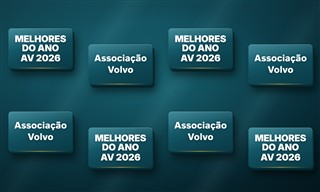
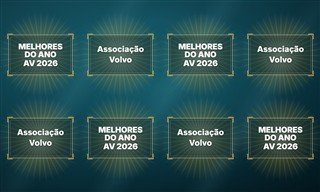
Arte 7 sem medalha e linha, estrela com brilho; Arte 10 com raios (AV 2026 amarelo); Arte 11 com box em linhas e raios dourados

diff --git a/artes/banner-5x3-painel.html b/artes/banner-5x3-painel.html
@@ -3,7 +3,7 @@
 <!-- Banner para impressão: proporção 5 x 3.
      Painel de fotos: 4 colunas, cada uma com um "Melhores do Ano AV 2026" e um "Associação / Volvo",
      colunas alternando um pouco mais para cima e mais para baixo. Tudo em branco.
-     Versões (no endereço): ?v=amarelo (AV 2026 em amarelo), ?v=branco (tudo branco), ?v=box (boxes 3D atrás). -->
+     Versões (no endereço): ?v=amarelo (AV 2026 em amarelo), ?v=raios (raios de luz atrás das palavras), ?v=box (box em linhas com raios dourados atrás, alinhado). -->
 <link href="https://fonts.googleapis.com/css2?family=Inter:wght@800;900&display=swap" rel="stylesheet">
 <style>
   * { margin: 0; padding: 0; box-sizing: border-box; }
@@ -27,17 +27,28 @@
   .av2 img { display: block; height: 54px; filter: drop-shadow(0 3px 10px rgba(0,0,0,.3)); }
   .av2 img + img { margin-top: 18px; }
 
-  /* versão com boxes 3D: placa com face em degradê, brilho na borda de cima e "espessura" para baixo e para a direita */
-  .box .item { border-radius: 20px;
-    background: linear-gradient(160deg, #1d7486 0%, #0f4b5a 55%, #0a3a46 100%);
-    box-shadow:
-      inset 0 2px 0 rgba(255,255,255,.35), inset 0 -2px 0 rgba(0,0,0,.25), inset 0 0 0 1px rgba(255,255,255,.08),
-      2px 3px 0 #08323c, 4px 6px 0 #07303a, 6px 9px 0 #062b34, 8px 12px 0 #05262e, 10px 15px 0 #042129, 12px 18px 0 #031c23,
-      24px 44px 50px rgba(0,0,0,.55); }
-  .box .item::before { content: ''; position: absolute; inset: 0; border-radius: 20px; pointer-events: none;
-    background: linear-gradient(170deg, rgba(255,255,255,.16) 0%, rgba(255,255,255,0) 45%); }
-  .box .item::after { content: ''; position: absolute; left: 30px; right: 30px; bottom: 0; height: 4px; border-radius: 2px;
-    background: linear-gradient(90deg, transparent, #f2b632, transparent); opacity: .8; }
+  /* raios de luz vindo de trás (versões ?v=raios e ?v=box) */
+  .ray { position: absolute; width: 760px; height: 760px; margin: -380px 0 0 -380px; z-index: 1; pointer-events: none; border-radius: 50%; }
+  .ray::before { content: ''; position: absolute; inset: 0; border-radius: 50%;
+    background: repeating-conic-gradient(from 0deg, rgba(255,214,120,.9) 0deg 2deg, transparent 2deg 9deg);
+    -webkit-mask-image: radial-gradient(circle, #000 8%, transparent 52%); mask-image: radial-gradient(circle, #000 8%, transparent 52%); opacity: .3; }
+  .ray::after { content: ''; position: absolute; inset: 120px; border-radius: 50%;
+    background: radial-gradient(circle, rgba(255,236,180,.5), rgba(242,182,50,.18) 40%, transparent 70%); }
+  .raios .mda b.av, .box .mda b.av { color: #f2b632; }
+  .box .mda b.av { color: #fff; }
+  .box .mda b { font-size: 50px; }
+  .box .av2 img { height: 48px; }
+
+  /* versão com box em linhas: contorno fino branco + linha dourada por dentro, cantos marcados */
+  .box .item { border: 2px solid rgba(255,255,255,.8); border-radius: 6px; background: rgba(4,28,36,.35); }
+  .box .item::before { content: ''; position: absolute; inset: 10px; border: 1px solid rgba(242,182,50,.75); border-radius: 3px; pointer-events: none; }
+  .box .item::after { content: ''; position: absolute; inset: -9px; pointer-events: none;
+    background:
+      linear-gradient(#f2b632, #f2b632) left top / 34px 4px, linear-gradient(#f2b632, #f2b632) left top / 4px 34px,
+      linear-gradient(#f2b632, #f2b632) right top / 34px 4px, linear-gradient(#f2b632, #f2b632) right top / 4px 34px,
+      linear-gradient(#f2b632, #f2b632) left bottom / 34px 4px, linear-gradient(#f2b632, #f2b632) left bottom / 4px 34px,
+      linear-gradient(#f2b632, #f2b632) right bottom / 34px 4px, linear-gradient(#f2b632, #f2b632) right bottom / 4px 34px;
+    background-repeat: no-repeat; }
 </style></head>
 <body><div class="art" id="art">
   <div class="beam" style="left:300px"></div><div class="beam" style="left:900px"></div><div class="beam" style="left:1500px"></div>
@@ -57,8 +68,11 @@
   const cols = [250, 750, 1250, 1750];
   let h = '';
   cols.forEach((x, i) => {
-    const up = i % 2 === 0, y1 = up ? 300 : 400, y2 = y1 + 520;
+    const up = i % 2 === 0;
+    // na versão com box tudo fica alinhado em duas linhas retas; nas outras, colunas em zigue-zague
+    const y1 = v === 'box' ? 340 : (up ? 300 : 400), y2 = v === 'box' ? 860 : y1 + 520;
     const first = up ? ['mda', MDA] : ['av2', AV2], second = up ? ['av2', AV2] : ['mda', MDA];
+    if (v === 'raios' || v === 'box') h += `<div class="ray" style="left:${x}px;top:${y1}px"></div><div class="ray" style="left:${x}px;top:${y2}px"></div>`;
     h += `<div class="item ${first[0]}" style="left:${x}px;top:${y1}px">${first[1]}</div>`;
     h += `<div class="item ${second[0]}" style="left:${x}px;top:${y2}px">${second[1]}</div>`;
   });

diff --git a/artes/banner-5x3-rodape.html b/artes/banner-5x3-rodape.html
@@ -22,11 +22,19 @@
   .title .bar { display: block; width: 150px; height: 9px; margin-top: 20px; background: linear-gradient(90deg, #f2b632 0 70%, transparent 70% 78%, #3fb5bf 78%); transform: skewX(-30deg); }
   .logo { width: 490px; filter: drop-shadow(0 4px 18px rgba(0,0,0,.4)); }
   .starbox { position: relative; width: 520px; height: 300px; display: flex; justify-content: flex-end; align-items: center; }
-  .starbox .glow { position: absolute; right: -90px; top: 50%; width: 520px; height: 520px; margin-top: -260px; border-radius: 50%;
-    background: radial-gradient(circle, rgba(255,226,140,.5), rgba(242,182,50,.14) 40%, transparent 68%); }
-  .starbox .flare { position: absolute; right: -40px; top: 50%; width: 520px; height: 8px; margin-top: -4px; border-radius: 50%; mix-blend-mode: screen;
+  /* estrela com luz vindo de trás: halo, raios suaves girando em volta e cruz de brilho */
+  .sw { position: relative; width: 270px; height: 270px; margin-right: 10px; }
+  .sw > div:not(#star) { position: absolute; left: 50%; top: 50%; border-radius: 50%; pointer-events: none; }
+  .sw .rays { width: 900px; height: 900px; margin: -450px 0 0 -450px; opacity: .26;
+    background: repeating-conic-gradient(from 4deg, rgba(255,214,120,.85) 0deg 2.5deg, transparent 2.5deg 11deg);
+    -webkit-mask-image: radial-gradient(circle, #000 12%, transparent 50%); mask-image: radial-gradient(circle, #000 12%, transparent 50%); }
+  .sw .halo { width: 640px; height: 640px; margin: -320px 0 0 -320px;
+    background: radial-gradient(circle, rgba(255,240,200,.75) 0%, rgba(255,214,120,.45) 16%, rgba(242,182,50,.16) 38%, transparent 66%); }
+  .sw .flare.h { width: 760px; height: 8px; margin: -4px 0 0 -380px; mix-blend-mode: screen;
     background: radial-gradient(ellipse, rgba(255,250,225,.95), rgba(255,214,120,.35) 35%, transparent 70%); }
-  #star { position: relative; width: 270px; height: 270px; margin-right: 10px; transform: rotate(-8deg);
+  .sw .flare.v { width: 8px; height: 420px; margin: -210px 0 0 -4px; mix-blend-mode: screen;
+    background: radial-gradient(ellipse, rgba(255,250,225,.9), rgba(255,214,120,.3) 35%, transparent 70%); }
+  #star { position: relative; width: 270px; height: 270px; transform: rotate(-8deg);
     filter: drop-shadow(0 0 26px rgba(255,214,110,.8)) drop-shadow(0 20px 34px rgba(0,0,0,.5)); }
   #star svg { width: 100%; height: 100%; display: block; }
 
@@ -43,7 +51,7 @@
   <div class="top">
     <div class="title">Melhores<br>do ano<span class="av">AV 2026</span><span class="bar"></span></div>
     <img class="logo" src="../img/logo-associacao-volvo.png" alt="Associação Volvo">
-    <div class="starbox"><div class="glow"></div><div class="flare"></div><div id="star"></div></div>
+    <div class="starbox"><div class="sw"><div class="rays"></div><div class="halo"></div><div class="flare h"></div><div class="flare v"></div><div id="star"></div></div></div>
   </div>
 </div>
 <script>
@@ -118,12 +126,10 @@
       ping(1060, 420, .95, 28), bol(1185, 300, 34),
       vol(1350, 510, 230, -20),
       basq(1905, 480, 195, 24),
-      med(1610, 440, 1.0, 10),
+      ten(1610, 420, 100, 15),
       ten(1990, 300, 70, -30)
     ].join('');
-    // linha de luz acima do rodapé
-    const line = `<path d="M0 250 C 500 210 1500 210 2000 250" fill="none" stroke="#6ff6ff" stroke-opacity=".35" stroke-width="3"/>`;
-    document.getElementById('footer').innerHTML = `<svg viewBox="0 0 2000 460">${defs}${line}
+    document.getElementById('footer').innerHTML = `<svg viewBox="0 0 2000 460">${defs}
       <g fill="none" stroke="#6ff6ff" stroke-opacity=".9" stroke-width="5" stroke-linecap="round" stroke-linejoin="round" filter="url(#neon)">${parts}</g></svg>`;
   })();
 </script>

diff --git a/artes/index.html b/artes/index.html
@@ -61,11 +61,11 @@
     ['banner-5x3-trofeu.png', 'Banner 5 x 3 — troféu (foto real)', 'Mãos erguendo o troféu · logo no canto superior direito'],
     ['arte-estrela.png', 'Arte 16:9 — estrela', 'Formato de tela (1920 x 1080)'],
     ['arte-trofeu.png', 'Arte 16:9 — troféu e medalhas', 'Formato de tela (1920 x 1080)'],
-    ['banner-5x3-rodape.png', 'Banner 5 x 3 — rodapé esportivo', 'Título, logo e estrela na mesma linha · rodapé com contornos de bolas em luz'],
+    ['banner-5x3-rodape.png', 'Banner 5 x 3 — rodapé esportivo', 'Título, logo e estrela com brilho na mesma linha · rodapé com contornos de bolas em luz'],
     ['banner-5x3-emblema.png', 'Banner 5 x 3 — emblema dourado', 'Estrela e Melhores do Ano centralizados, estilo prêmio'],
     ['banner-5x3-painel.png', 'Banner 5 x 3 — painel intercalado (AV 2026 amarelo)', 'Colunas alternadas: Melhores do Ano e Associação / Volvo em branco'],
-    ['banner-5x3-painel-branco.png', 'Banner 5 x 3 — painel intercalado (tudo branco)', 'Colunas alternadas, AV 2026 também em branco'],
-    ['banner-5x3-painel-box.png', 'Banner 5 x 3 — painel com boxes 3D', 'Cada selo dentro de um box em 3D, letras brancas']
+    ['banner-5x3-painel-raios.png', 'Banner 5 x 3 — painel com raios', 'Raios de luz dourada atrás de cada selo · AV 2026 amarelo'],
+    ['banner-5x3-painel-box.png', 'Banner 5 x 3 — painel com box em linhas', 'Box em contorno com cantos dourados e raios atrás · tudo alinhado']
   ];
   const $ = id => document.getElementById(id);
   let cur = 0;
